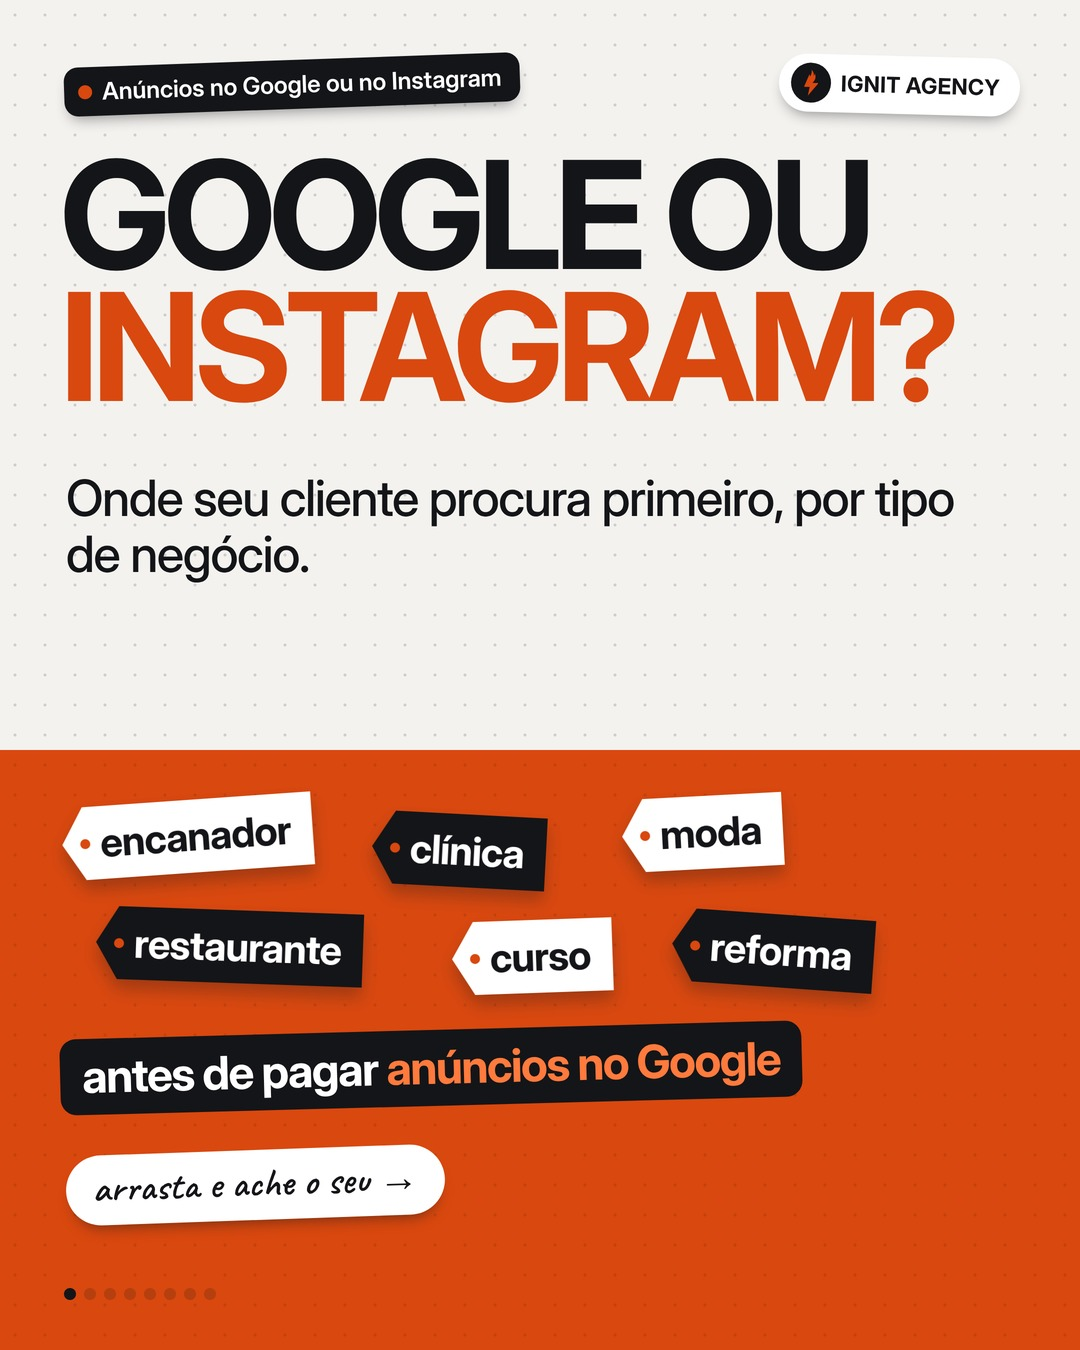
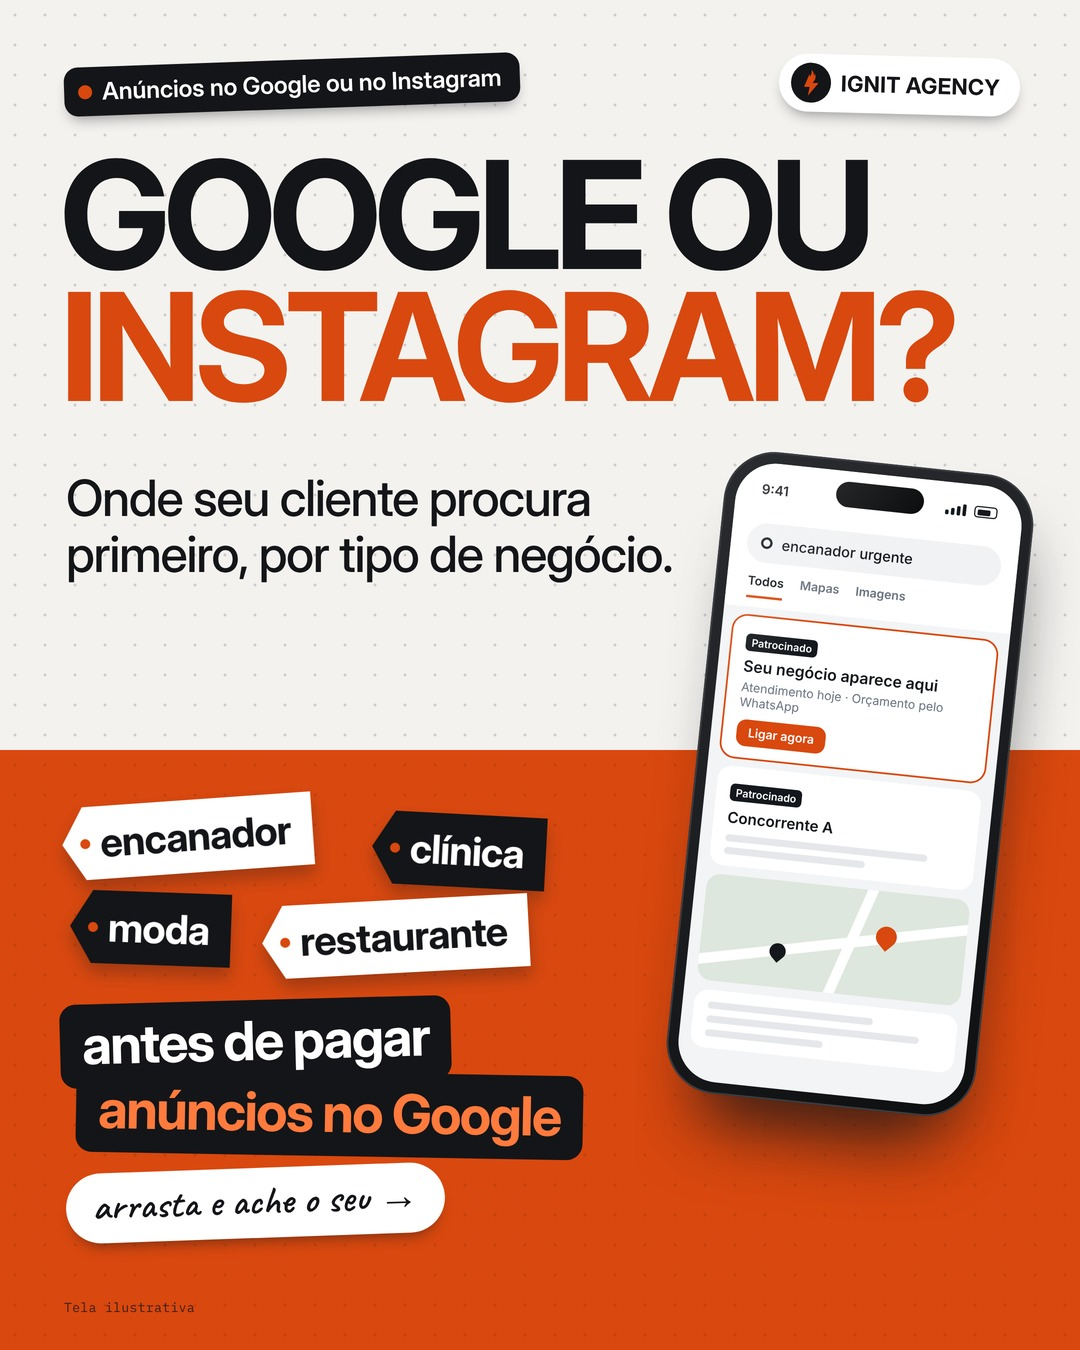
Piloto Instagram: capa com cena de celular
Claude-Session: https://claude.ai/code/session_018NLD3XLRXpUwb8MSU9N9Am

Changed region(s): [[0.0306, 0.3111, 0.9778, 0.9956], [0.1222, 0.9644, 0.1528, 0.9956]]

diff --git a/ig-piloto/c_google_instagram.py b/ig-piloto/c_google_instagram.py
@@ -38,13 +38,21 @@ def step(i, title, text, lk, lv):
 {OBJ[i]}<div class="look"><small>{lk}</small><b>{lv}</b></div>{dots(i + 2, T)}<div class="nx">arrasta →</div>""", xc)
 
 # 1 capa
+scr = f"""<div style="padding:12px 14px 0;background:#fff"><div style="height:34px;border-radius:17px;background:#F1F2F4;display:flex;align-items:center;gap:8px;padding:0 12px;font-size:12.5px;font-weight:500"><span style="width:10px;height:10px;border:2px solid #14171C;border-radius:50%"></span>encanador urgente</div>
+<div style="display:flex;gap:14px;font-size:10.5px;font-weight:600;padding:10px 4px 8px;color:#6B7280"><span style="color:#14171C;border-bottom:2px solid {OR};padding-bottom:6px">Todos</span><span>Mapas</span><span>Imagens</span></div></div>
+<div style="margin:8px 10px;background:#fff;border-radius:12px;padding:10px 12px;box-shadow:0 0 0 1.5px {OR}"><span style="font-size:9px;font-weight:700;background:#14171C;color:#fff;border-radius:4px;padding:2px 5px">Patrocinado</span><div style="font-weight:700;font-size:13.5px;margin-top:6px;line-height:1.15">Seu negócio aparece aqui</div><div style="font-size:10.5px;color:#6B7280;margin-top:3px">Atendimento hoje · Orçamento pelo WhatsApp</div><div style="margin-top:8px;display:inline-block;background:{OR};color:#fff;font-size:10.5px;font-weight:700;border-radius:8px;padding:5px 10px">Ligar agora</div></div>
+<div style="margin:8px 10px;background:#fff;border-radius:12px;padding:10px 12px"><span style="font-size:9px;font-weight:700;background:#14171C;color:#fff;border-radius:4px;padding:2px 5px">Patrocinado</span><div style="font-weight:700;font-size:13px;margin-top:6px">Concorrente A</div><div style="height:6px;border-radius:3px;background:#E5E7EB;margin-top:7px;width:86%"></div><div style="height:6px;border-radius:3px;background:#E5E7EB;margin-top:5px;width:60%"></div></div>
+<div style="margin:8px 10px;height:92px;border-radius:12px;background:#DDE7DD;position:relative;overflow:hidden"><i style="position:absolute;left:-20px;top:40px;width:320px;height:9px;background:#fff;transform:rotate(-12deg)"></i><i style="position:absolute;left:120px;top:-20px;width:9px;height:160px;background:#fff;transform:rotate(18deg)"></i><i style="position:absolute;left:150px;top:30px;width:18px;height:18px;border-radius:50% 50% 50% 0;background:{OR};transform:rotate(-45deg)"></i><i style="position:absolute;left:60px;top:54px;width:14px;height:14px;border-radius:50% 50% 50% 0;background:#14171C;transform:rotate(-45deg)"></i></div>
+<div style="margin:8px 10px;background:#fff;border-radius:12px;padding:10px 12px"><div style="height:6px;border-radius:3px;background:#E5E7EB;width:70%"></div><div style="height:6px;border-radius:3px;background:#E5E7EB;margin-top:6px;width:90%"></div><div style="height:6px;border-radius:3px;background:#E5E7EB;margin-top:6px;width:50%"></div></div>"""
 b = f"""{org(600)}{chip(N)}{logo()}
 {big("Google ou", 150, 150)}{big("Instagram?", 282, 150, OR)}
-{sub("Onde seu cliente procura primeiro, por tipo de negócio.", 470, 50, "right:120px;line-height:1.12")}
-{tag("encanador", "w", 62, 800, -4, 40)}{tag("clínica", "k", 372, 814, 3, 40)}{tag("moda", "w", 622, 796, -3, 40)}
-{tag("restaurante", "k", 96, 910, 2, 40)}{tag("curso", "w", 452, 920, -2, 40)}{tag("reforma", "k", 672, 914, 4, 40)}
-{blk("antes de pagar <em>anúncios no Google</em>", 1030, 60, -1.5, 46)}
-{pill("arrasta e ache o seu →", 1150)}{dots(1, T)}"""
+{sub("Onde seu cliente procura primeiro, por tipo de negócio.", 470, 50, "right:400px;line-height:1.12")}
+{tag("encanador", "w", 62, 800, -4, 40)}{tag("clínica", "k", 372, 814, 3, 40)}
+{tag("moda", "k", 70, 892, 2, 40)}{tag("restaurante", "w", 262, 900, -3, 40)}
+{phone(scr, 716, 506, 6, 1.16)}
+{blk("antes de pagar", 1000, 60, -1.5, 54)}{blk("<em>anúncios no Google</em>", 1072, 76, 1, 54)}
+{pill("arrasta e ache o seu →", 1168)}
+{foot("Tela ilustrativa")}"""
 w("s1", page(b, xc))
 # 2 tensão (laranja)
 b = f"""{chip(N)}{logo()}
